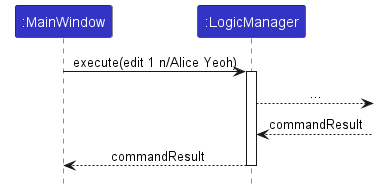
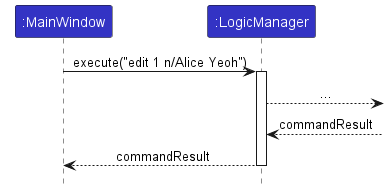
Add label content and change label names to "T<no>" in bold

diff --git a/tutorials/ab3TracingCode.md b/tutorials/ab3TracingCode.md
@@ -115,8 +115,12 @@ At this point, you should have understood the high-level overview of the sequenc
 We will begin to trace the following sequence diagram which explores the `Logic` component in more detail which will be paramount to understanding other commands as well!
 The diagrams will be reproduced with labels in their sections to highlight the pass of control between classes.
 
-<puml src="images/tracing/LogicSequenceDiagramWithMainWindow.puml" alt="Tracing an `edit` command with specific arguments"></puml>
+Some of the labels can be clicked on to view additional description of the execution flow.
+Try it out in the sequence diagram below!
 
+<annotate src="images/tracing/LogicSequenceDiagramImproved.png" width="900" alt="Tracing edit command">
+  <a-point x="0%" y="16%" content="Labels will be annotated as T(step). " label="<b>T0</b>"/>
+</annotate>
 
 <box type="tip" seamless>
 
@@ -125,9 +129,8 @@ The diagrams will be reproduced with labels in their sections to highlight the p
 
 ### 1. MainWindow -> LogicManager
 
-<annotate src="images/tracing/LogicSequenceDiagramWithMainWindow.png" width="900" alt="Sample Image">
-  <!-- Set Legend to both -->
-  <a-point x="24%" y="16%"  label="1"/>
+<annotate src="images/tracing/LogicSequenceDiagramImproved.png" width="900" alt="Tracing edit command">
+  <a-point x="20.5%" y="16%" content="`MainWindow` passes control to `LogicManager` after user enters the edit command through the `execute` method" label="<b>T1</b>"/>
 </annotate>
 
 1. To start the debugging session, simply `Run` \> `Debug Main`
@@ -146,9 +149,8 @@ The diagrams will be reproduced with labels in their sections to highlight the p
 
 ### 2. LogicManager -> AddressBookParser
 
-<annotate src="images/tracing/LogicSequenceDiagramWithMainWindow.png" width="900" alt="Sample Image">
-  <!-- Set Legend to both -->
-  <a-point x="47.5%" y="23%"  label="2"/>
+<annotate src="images/tracing/LogicSequenceDiagramImproved.png" width="900" alt="Tracing edit command">
+  <a-point x="46%" y="23%" content="`LogicManager` calls `parseCommand` of `AddressBookParser`. We delegate the parsing of the user command input to `AddressBookParser` now." label="<b>T2</b>"/>
 </annotate>
 
 
@@ -201,10 +203,9 @@ The diagrams will be reproduced with labels in their sections to highlight the p
 
 ### 3. AddressBookParser -> EditCommandParser
 
-<annotate src="images/tracing/LogicSequenceDiagramWithMainWindow.png" width="900" alt="Sample Image">
-  <!-- Set Legend to both -->
-  <a-point x="58%" y="26%"  label="3"/>
-  <a-point x="64%" y="44%"  label="4"/>
+<annotate src="images/tracing/LogicSequenceDiagramImproved.png" width="900" alt="Tracing edit command">
+  <a-point x="56%" y="26%" content="First `EditCommandParser` is created"  label="<b>T3</b>"/>
+  <a-point x="63.5%" y="44%" content="Then the arguments are passed into `EditCommandParser`" label="<b>T4</b>"/>
 </annotate>
 
 
@@ -224,19 +225,18 @@ The diagrams will be reproduced with labels in their sections to highlight the p
     ...
     ```
 
-1. `EditCommandParser` is created first, annotated with [label 3](#3-addressbookparser-editcommandparser)
+1. `EditCommandParser` is created first, annotated with [label T3](#3-addressbookparser-editcommandparser)
 
 1. `AddressBookParser` now calls `parse(...)` of the newly created `EditCommandParser`, highlighted in the diagram as well, passing control to
-   `EditCommandParser`, annotated with [label 4](#3-addressbookparser-editcommandparser)
+   `EditCommandParser`, annotated with [label T4](#3-addressbookparser-editcommandparser)
 
 
 ### 4. EditCommandParser -> EditCommand
 
-<annotate src="images/tracing/LogicSequenceDiagramWithMainWindow.png" width="900" alt="Sample Image">
-  <!-- Set Legend to both -->
-<a-point x="82%" y="51%"  label="5"/>
-<a-point x="50%" y="64%"  color = "RED" label="6"/>
-<a-point x="26%" y="71%"  color = "RED" label="7"/>
+<annotate src="images/tracing/LogicSequenceDiagramImproved.png" width="900" alt="Tracing edit command">
+<a-point x="81%" y="51%" content="`EditCommandParser` parses the user command input and retrieves the relevant fields such as index and changed fields. This will be used to create the `EditCommand` for future execution."  label="<b>T5</b>"/>
+<a-point x="48%" y="64%" content="The created `EditCommand` is then returned to `AddressBookParser`" color = "RED" label="<b>T6</b>"/>
+<a-point x="22%" y="71%" content="Which is then returned to `LogicManager`" color = "RED" label="<b>T7</b>"/>
 </annotate>
 
 
@@ -268,10 +268,9 @@ The diagrams will be reproduced with labels in their sections to highlight the p
 
 ### 5. LogicManager -> EditCommand
 
-<annotate src="images/tracing/LogicSequenceDiagramWithMainWindow.png" width="900" alt="Sample Image">
-  <!-- Set Legend to both -->
-  <a-point x="90%" y="79%"  label="8"/>
-<a-point x="26%" y="86.5%"  color = "RED" label="9"/>
+<annotate src="images/tracing/LogicSequenceDiagramImproved.png" width="900" alt="Tracing edit command">
+  <a-point x="90%" y="79%"  label="<b>T8</b>"/>
+<a-point x="22%" y="86.5%" content="After executing the `EditCommand` it returns a `CommandResult` which contains feedback that will be displayed to the user later." color = "RED" label="<b>T9</b>"/>
 </annotate>
 
 1. Let’s continue stepping through until we return to `LogicManager#execute()`.
@@ -352,9 +351,8 @@ The diagrams will be reproduced with labels in their sections to highlight the p
 
 ### 7. Returning to MainWindow
 
-<annotate src="images/tracing/LogicSequenceDiagramOnlyWithMainWindow.png" alt="Sample Image">
-  <!-- Set Legend to both -->
-<a-point x="19%" y="84%"  color = "RED" label="9"/>
+<annotate src="images/tracing/LogicSequenceDiagramOnlyWithMainWindow.png" alt="Returning to Main Window">
+<a-point x="19%" y="84%" content="`CommandResult` is further returned to `MainWindow`. This allows us to now display feedback to the user on the UI." color = "RED" label="<b>T10</b>"/>
 </annotate>
 
 1. We can continue to step through until you reach the end of the `LogicManager#execute()` method and return to the `MainWindow#executeCommand()` method (the place where we put the original breakpoint).
